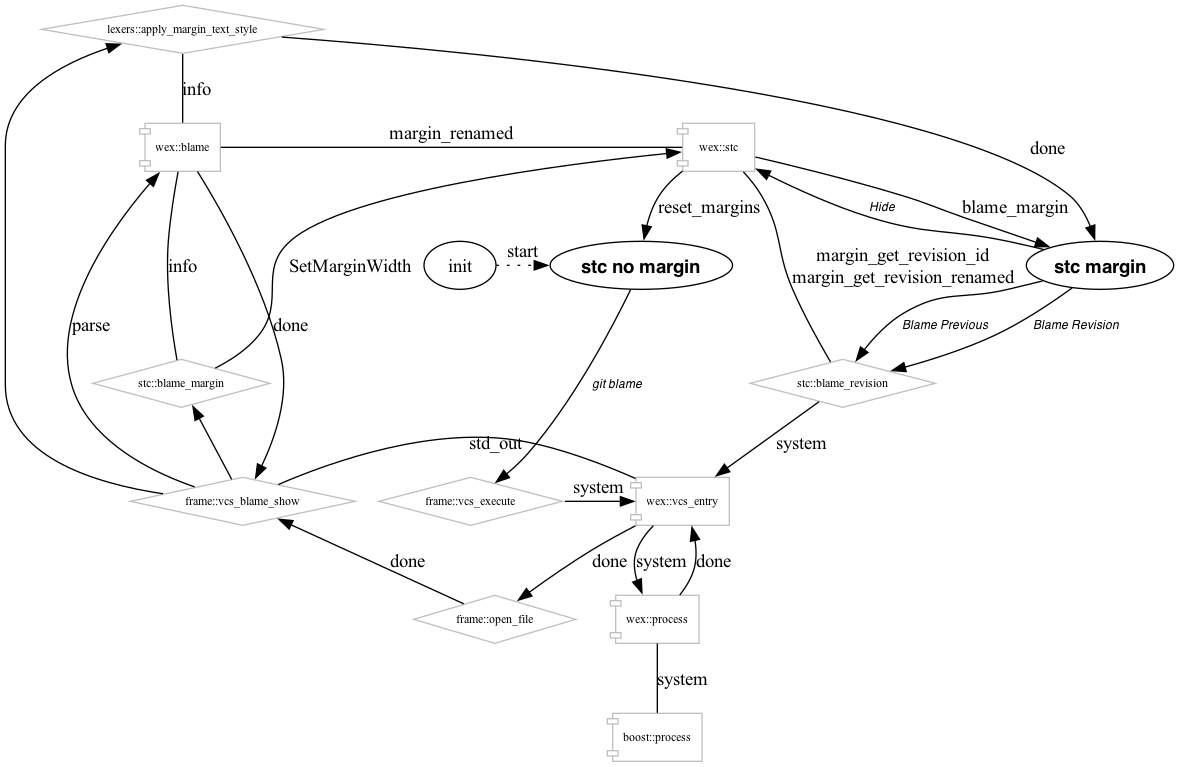
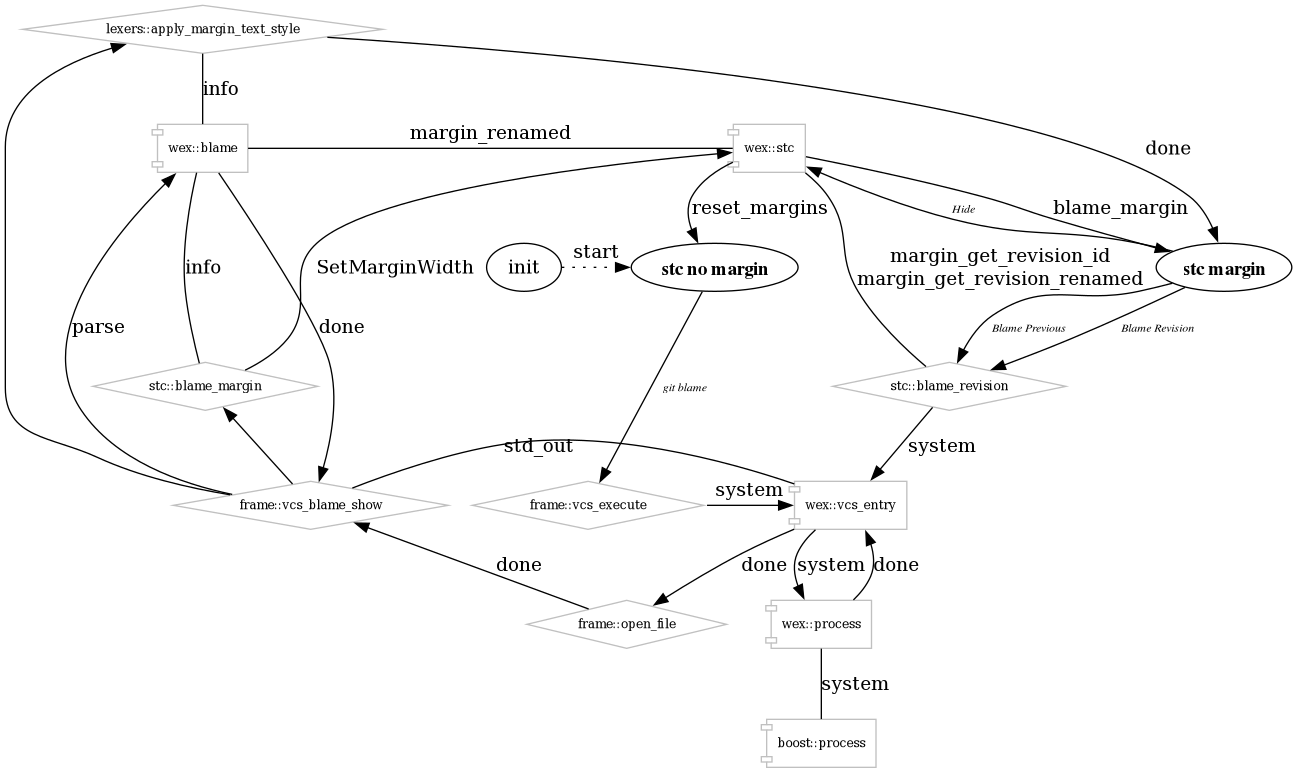
fixed running dot

diff --git a/v24.04.0/html/index.html b/v24.04.0/html/index.html
@@ -46,6 +46,28 @@ $(function() {
 <div class="textblock"><p>This is a <a href="https://antonvw@github.com/antonvw/wex.git">public source code library</a> containing a collection of classes to support vi and ex functionality in wxStyledTextCtrl derived classes.</p>
 <p>For build instructions see <a href="https://github.com/antonvw/wex/blob/v24.04.0/README.md">README</a>. </p>
 <div class="dotgraph">
+<img src="dot_inline_dotgraph_5.png" alt="dot_inline_dotgraph_5.png" border="0" usemap="#dot_inline_dotgraph_5.map"/>
+<map name="dot_inline_dotgraph_5.map" id="dot_inline_dotgraph_5.map"><area shape="poly" href="https://www.boost.org" title="boost" alt="" coords="302,1373,300,1366,292,1359,281,1354,267,1351,251,1349,235,1351,220,1354,209,1359,202,1366,199,1373,202,1381,209,1387,220,1393,235,1396,251,1397,267,1396,281,1393,292,1387,300,1381"/>
+<area shape="poly" href="https://github.com/universal-ctags/ctags" title="ctags&#45;universal" alt="" coords="623,797,618,790,601,783,575,778,543,775,507,773,471,775,438,778,412,783,396,790,390,797,396,805,412,811,438,817,471,820,507,821,543,820,575,817,601,811,618,805"/>
+<area shape="poly" href="https://github.com/onqtam/doctest" title="doctest" alt="" coords="723,1277,720,1270,710,1263,696,1258,678,1255,659,1253,639,1255,621,1258,607,1263,598,1270,595,1277,598,1285,607,1291,621,1297,639,1300,659,1301,678,1300,696,1297,710,1291,720,1285"/>
+<area shape="poly" href="http://otl.sourceforge.net/" title="otl" alt="" coords="720,893,718,886,713,879,705,874,695,871,684,869,673,871,663,874,655,879,650,886,648,893,650,901,655,907,663,913,673,916,684,917,695,916,705,913,713,907,718,901"/>
+<area shape="poly" href="https://github.com/zeux/pugixml" title="pugixml" alt="" coords="464,1373,460,1366,450,1359,435,1354,416,1351,395,1349,373,1351,354,1354,339,1359,329,1366,326,1373,329,1381,339,1387,354,1393,373,1396,395,1397,416,1396,435,1393,450,1387,460,1381"/>
+<area shape="poly" href="https://robotframework.org" title="rfw" alt="" coords="1065,125,1064,118,1058,111,1050,106,1040,103,1028,101,1016,103,1006,106,998,111,992,118,991,125,992,133,998,139,1006,145,1016,148,1028,149,1040,148,1050,145,1058,139,1064,133"/>
+<area shape="poly" href="http://docs.wxwidgets.org/latest" title="wxWidgets" alt="" coords="665,1373,660,1366,648,1359,628,1354,603,1351,576,1349,549,1351,524,1354,504,1359,492,1366,487,1373,492,1381,504,1387,524,1393,549,1396,576,1397,603,1396,628,1393,648,1387,660,1381"/>
+<area shape="rect" title="this library contains integration classes, also performs final integraton of factory classes, and invokes static initialization and exit methods" alt="" coords="698,197,774,245"/>
+<area shape="rect" title="this library contains vcs and debug classes" alt="" coords="686,293,762,341"/>
+<area shape="rect" title="this library contains stc classes and functions" alt="" coords="646,389,720,437"/>
+<area shape="rect" title="this library contains vi classes and functions" alt="" coords="592,485,664,533"/>
+<area shape="rect" title="this library contains ex classes and functions" alt="" coords="592,581,664,629"/>
+<area shape="rect" title="this library contains ctags classes and functions" alt="" coords="491,677,578,725"/>
+<area shape="rect" title="this library contains ui classes (frame, grid, list, menu, notebook, statusbar), and functions" alt="" coords="648,773,720,821"/>
+<area shape="rect" title="this library contains common classes" alt="" coords="296,869,400,917"/>
+<area shape="rect" title="this library contains data injection classes" alt="" coords="296,965,379,1013"/>
+<area shape="rect" title="this library contains syntax lexer classes" alt="" coords="5,1061,99,1109"/>
+<area shape="rect" title="this library contains factory classes, with virtual methods for derived classes" alt="" coords="161,1157,258,1205"/>
+<area shape="rect" title="this library contains core classes and functions, and does not use any other wex libraries" alt="" coords="354,1253,436,1301"/>
+<area shape="rect" title="this library contains test classes and functions" alt="" coords="620,1157,698,1205"/>
+</map>
 </div>
  </div></div><!-- PageDoc -->
 <a href="doxygen_crawl.html"/>

diff --git a/v24.04.0/html/classwex_1_1blame.html b/v24.04.0/html/classwex_1_1blame.html
@@ -136,6 +136,7 @@ static std::string&#160;</td><td class="memItemRight" valign="bottom"><b>margin_
 <a name="details" id="details"></a><h2 class="groupheader">Detailed Description</h2>
 <div class="textblock"><p>Offers a blame class for some vcs. </p>
 <p>The vcs used is configured using the xml_node constructor (see wex-menus.xml), the kind of info returned after parse is configurable using blame_get_author, blame_get_id, blame_get_date. </p><div class="dotgraph">
+<img src="dot_inline_dotgraph_1.png" alt="dot_inline_dotgraph_1.png" border="0" usemap="#dot_inline_dotgraph_1.map"/>
 </div>
  </div><h2 class="groupheader">Member Enumeration Documentation</h2>
 <a id="ab776000aa32ef4b2e5dcddacf6c2c490" name="ab776000aa32ef4b2e5dcddacf6c2c490"></a>

diff --git a/v24.04.0/html/classwex_1_1macros.html b/v24.04.0/html/classwex_1_1macros.html
@@ -191,6 +191,7 @@ bool&#160;</td><td class="memItemRight" valign="bottom"><b>starts_with</b> (cons
 <a name="details" id="details"></a><h2 class="groupheader">Detailed Description</h2>
 <div class="textblock"><p>Offers the macro collection, and allows recording and playback to vi (ex) component. </p>
 <p>You can also use variables inside a macro (or in vi), these are expanded while playing back. </p><div class="dotgraph">
+<img src="dot_inline_dotgraph_3.png" alt="dot_inline_dotgraph_3.png" border="0" usemap="#dot_inline_dotgraph_3.map"/>
 </div>
  </div><h2 class="groupheader">Member Enumeration Documentation</h2>
 <a id="a7db3dcaf97cc055bd386d0c9329f1f95" name="a7db3dcaf97cc055bd386d0c9329f1f95"></a>

diff --git a/v24.04.0/html/inherits.html b/v24.04.0/html/inherits.html
@@ -204,7 +204,7 @@ $(function() {
 </td></tr>
 <tr><td><img src="inherit_graph_30.png" border="0" usemap="#awex_1_1debug" alt=""/>
 <map name="awex_1_1debug" id="awex_1_1debug">
-<area shape="rect" href="classwex_1_1debug.html" title="Offers a debug that allows you to use an stc component as graphical interface for a debug process (e...." alt="" coords="5,5,94,31"/>
+<area shape="rect" href="classwex_1_1debug.html" title="Offers a debug class that allows you to use an stc component as graphical interface for a debug proce..." alt="" coords="5,5,102,33"/>
 </map>
 </td></tr>
 <tr><td><img src="inherit_graph_31.png" border="0" usemap="#awex_1_1del_1_1dirctrl" alt=""/>

diff --git a/v24.04.0/html/classwex_1_1interruptible.html b/v24.04.0/html/classwex_1_1interruptible.html
@@ -82,6 +82,7 @@ static bool&#160;</td><td class="memItemRight" valign="bottom"><b>is_running</b>
 <a name="details" id="details"></a><h2 class="groupheader">Detailed Description</h2>
 <div class="textblock"><p>Offers methods to start, stop things. </p>
 <div class="dotgraph">
+<img src="dot_inline_dotgraph_2.png" alt="dot_inline_dotgraph_2.png" border="0" usemap="#dot_inline_dotgraph_2.map"/>
 </div>
  </div><h2 class="groupheader">Member Function Documentation</h2>
 <a id="a226f6f7fc1b54c7e9360bad6680f334e" name="a226f6f7fc1b54c7e9360bad6680f334e"></a>

diff --git a/v24.04.0/html/classwex_1_1vi__mode.html b/v24.04.0/html/classwex_1_1vi__mode.html
@@ -124,6 +124,7 @@ void&#160;</td><td class="memItemRight" valign="bottom"><b>visual</b> ()</td></t
 <a name="details" id="details"></a><h2 class="groupheader">Detailed Description</h2>
 <div class="textblock"><p>Offers vi mode. </p>
 <div class="dotgraph">
+<img src="dot_inline_dotgraph_4.png" alt="dot_inline_dotgraph_4.png" border="0" usemap="#dot_inline_dotgraph_4.map"/>
 </div>
  </div><h2 class="groupheader">Member Enumeration Documentation</h2>
 <a id="a29d66c275473ae1adfb2cee83cabeb27" name="a29d66c275473ae1adfb2cee83cabeb27"></a>
